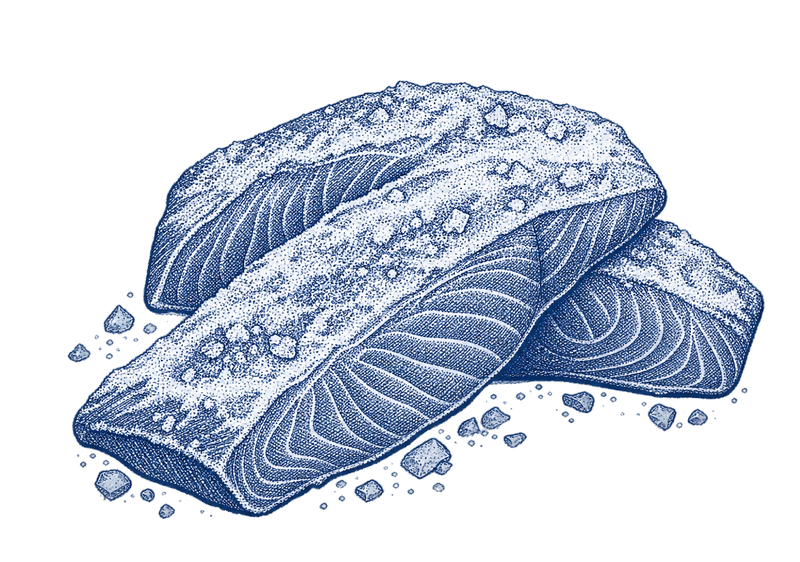
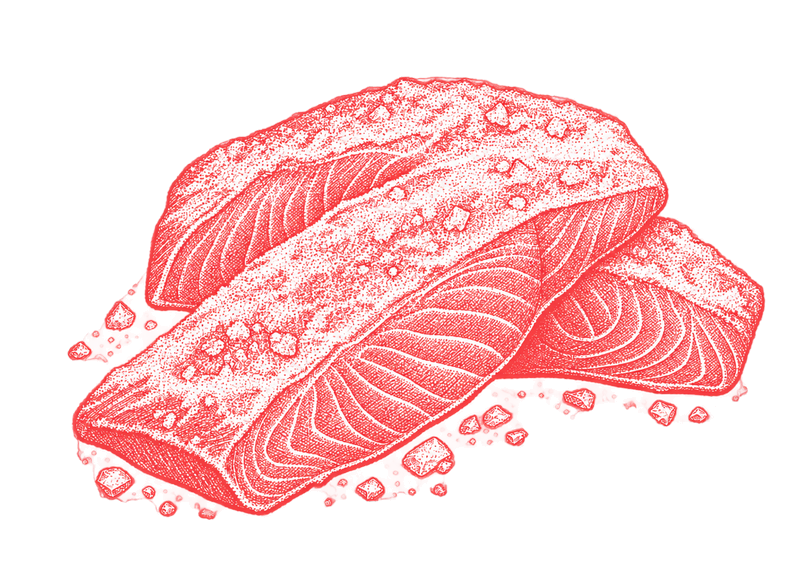
Productos: nueva ilustración de Congelado en Soluciones para cada mercado

diff --git a/design-system/changelog.md b/design-system/changelog.md
@@ -4,6 +4,9 @@ Registro de cambios del kit (tokens, estilos de texto y componentes). Cada entra
 
 Formato: `AAAA-MM-DD · [Figma ✓/pendiente] [Código ✓/pendiente] · descripción`
 
+## 2026-10-26 · Nueva ilustración de Congelado
+- Código ✓ · Productos › Soluciones para cada mercado: la ilustración del paso Congelado se reemplaza por la nueva (Congelado_2), convertida a WebP sin pérdida de 800 px en el mismo archivo `assets/img/congelado.webp`.
+
 ## 2026-10-26 · Fondo del menú más oscuro
 - Código ✓ · Con el menú hamburguesa abierto, el fondo oscurecido pasa de Navy 950 al 45 % a 65 %: el logo y la X blancos suben de 2,9:1 a 5,4:1 sobre páginas blancas (AA). En mobile no cambia (el menú es una pantalla blanca).
 
